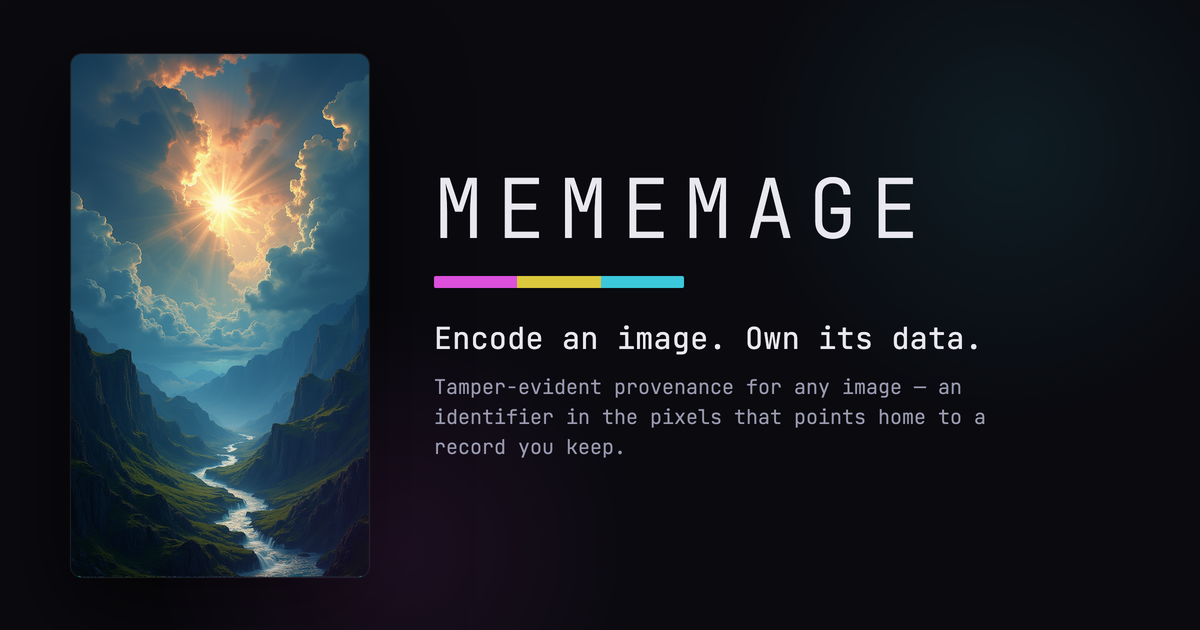
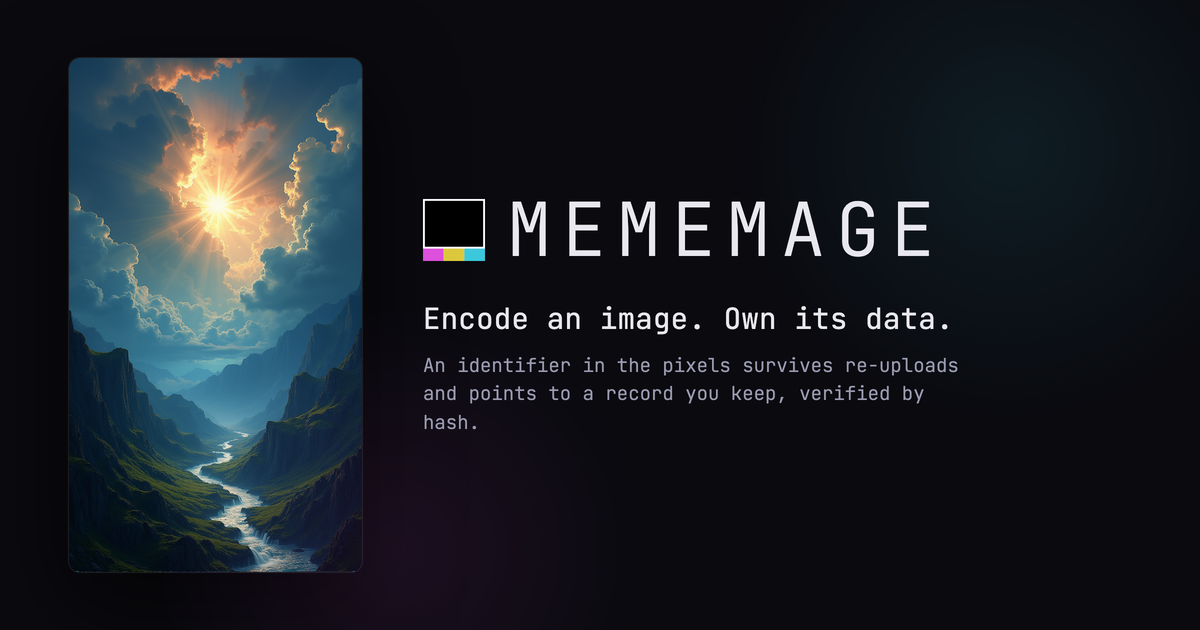
Update product page

diff --git a/index.html b/index.html
@@ -11,14 +11,14 @@
 <meta property="og:site_name" content="Mememage">
 <meta property="og:url" content="https://mememage.art/">
 <meta property="og:title" content="Mememage — own your image's data">
-<meta property="og:description" content="Tamper-evident provenance for any image — an identifier in the pixels that points home to a record you keep.">
+<meta property="og:description" content="An identifier in the pixels survives re-uploads and points to a record you keep, verified by hash.">
 <meta property="og:image" content="https://mememage.art/img/og.png">
 <meta property="og:image:width" content="1200">
 <meta property="og:image:height" content="630">
-<meta property="og:image:alt" content="Mememage — the genesis image beside the wordmark and the M/Y/C bar">
+<meta property="og:image:alt" content="Mememage — the genesis image beside the Mememage wordmark and icon">
 <meta name="twitter:card" content="summary_large_image">
 <meta name="twitter:title" content="Mememage — own your image's data">
-<meta name="twitter:description" content="Tamper-evident provenance for any image — an identifier in the pixels that points home to a record you keep.">
+<meta name="twitter:description" content="An identifier in the pixels survives re-uploads and points to a record you keep, verified by hash.">
 <meta name="twitter:image" content="https://mememage.art/img/og.png">
 <link href="https://fonts.googleapis.com/css2?family=JetBrains+Mono:wght@300;400;500;600&display=swap" rel="stylesheet">
 <link rel="stylesheet" href="css/theme.css">